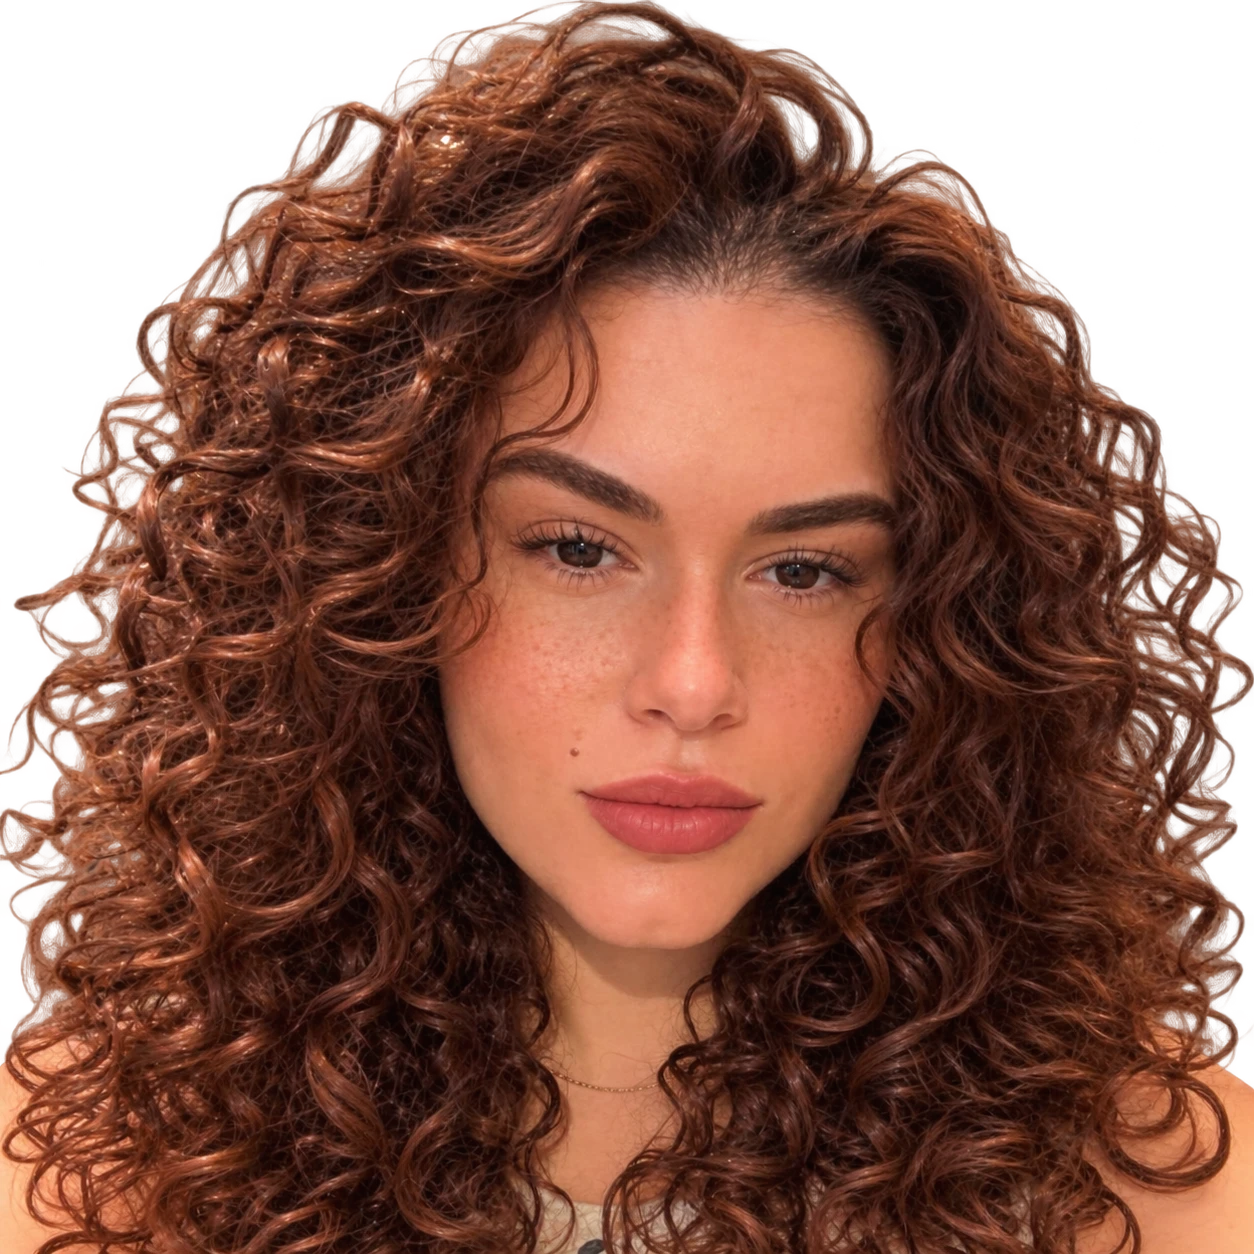
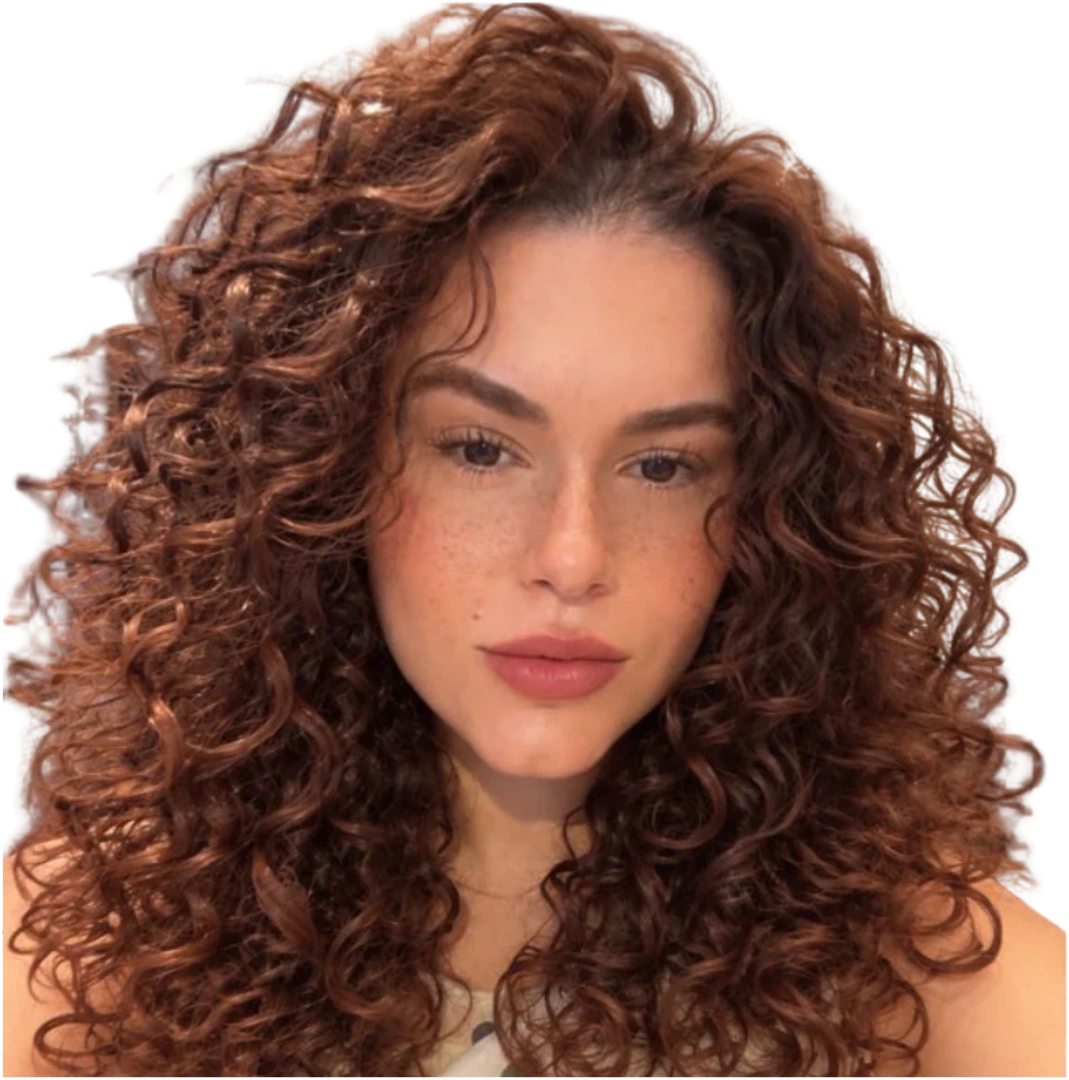
Troca a foto da hero por versao sem fundo e recortada

diff --git a/index.html b/index.html
@@ -99,16 +99,16 @@ nav a:hover::after{transform:scaleX(1)}
 .hero-meta svg{width:17px;height:17px;color:var(--gold-d)}
 .hv{position:relative;width:min(440px,100%);margin-inline:auto;perspective:1000px}
 .hv-frame{position:absolute;inset:-18px 18px 18px -18px;border:1px solid var(--gold);border-radius:26px;opacity:0;animation:fin 1.4s var(--ease) .9s forwards}
-.hv-art{position:relative;aspect-ratio:4/5;transition:transform .25s ease-out;transform-style:preserve-3d;clip-path:inset(-46% 0 0 0 round 0 0 22px 22px);opacity:0;animation:fin 1.2s var(--ease) .4s forwards}
+.hv-art{position:relative;aspect-ratio:1/1;transition:transform .25s ease-out;transform-style:preserve-3d;clip-path:inset(-30% -4% 0 -4% round 0 0 22px 22px);opacity:0;animation:fin 1.2s var(--ease) .4s forwards}
 .hv-panel{position:absolute;inset:0;border-radius:22px;overflow:hidden;background:linear-gradient(165deg,#EEE3D2,#E8DCCB 55%,#DDCCB1);border:1px solid var(--line);box-shadow:var(--shadow)}
 .hv-panel::before,.hv-panel::after{content:"";position:absolute;border:1px solid rgba(166,124,69,.38);border-radius:26px}
 .hv-panel::before{width:62%;height:48%;left:-18%;bottom:-8%;transform:rotate(-12deg)}
 .hv-panel::after{width:54%;height:42%;right:-16%;top:10%;transform:rotate(14deg)}
-.hv-art img{position:absolute;left:50%;bottom:0;width:126%;max-width:none;height:auto;transform:translateX(-50%);opacity:0;animation:pop 1.6s var(--ease) .5s forwards;filter:drop-shadow(0 22px 28px rgba(53,37,31,.18))}
+.hv-art img{position:absolute;left:50%;bottom:0;width:100%;max-width:none;height:auto;transform:translateX(-50%);opacity:0;animation:pop 1.6s var(--ease) .5s forwards;filter:drop-shadow(0 22px 28px rgba(53,37,31,.18))}
 @keyframes pop{from{opacity:0;transform:translateX(-50%) translateY(36px) scale(1.04)}to{opacity:1;transform:translateX(-50%)}}
 .chip{position:absolute;z-index:3;display:flex;align-items:center;gap:10px;padding:12px 18px;background:rgba(247,244,239,.9);backdrop-filter:blur(10px);border:1px solid var(--line);border-radius:var(--r-sm);font-size:12.5px;letter-spacing:.08em;color:var(--marrom);box-shadow:0 18px 34px -20px rgba(53,37,31,.5);animation:float 6s ease-in-out infinite}
 .chip svg{width:18px;height:18px;color:var(--gold-d)}
-.chip.c1{right:-7%;bottom:15%}
+.chip.c1{right:-7%;bottom:18%}
 .chip.c2{right:-3%;bottom:4%;animation-delay:-3s}
 @keyframes float{50%{transform:translateY(-10px)}}
 
@@ -405,7 +405,7 @@ footer{background:var(--marrom);color:#e6dfd3;padding:58px 0 40px;font-size:14.5
     </div>
     <div class="hv" id="hv" data-par="0.04">
       <div class="hv-frame"></div>
-      <figure class="hv-art" id="hvArt"><div class="hv-panel"></div><img src="giulia-hero.webp" alt="Giulia Dantas, consultora de imagem e coloração pessoal" width="1254" height="1254" fetchpriority="high"></figure>
+      <figure class="hv-art" id="hvArt"><div class="hv-panel"></div><img src="giulia-hero.webp" alt="Giulia Dantas, consultora de imagem e coloração pessoal" width="1069" height="1080" fetchpriority="high"></figure>
       <div class="chip c1"><svg viewBox="0 0 24 24" fill="none" stroke="currentColor" stroke-width="1.5" stroke-linecap="round" stroke-linejoin="round"><path d="M12 20s-7-4.400-7-10a4 4 0 017-2.600A4 4 0 0119 10c0 5.600-7 10-7 10z"/></svg>Consultoria de imagem</div>
       <div class="chip c2"><svg viewBox="0 0 24 24" fill="none" stroke="currentColor" stroke-width="1.5" stroke-linecap="round" stroke-linejoin="round"><rect x="4" y="4" width="16" height="16" rx="4"/><path d="M9 12h6M12 9v6"/></svg>Coloração pessoal</div>
     </div>
